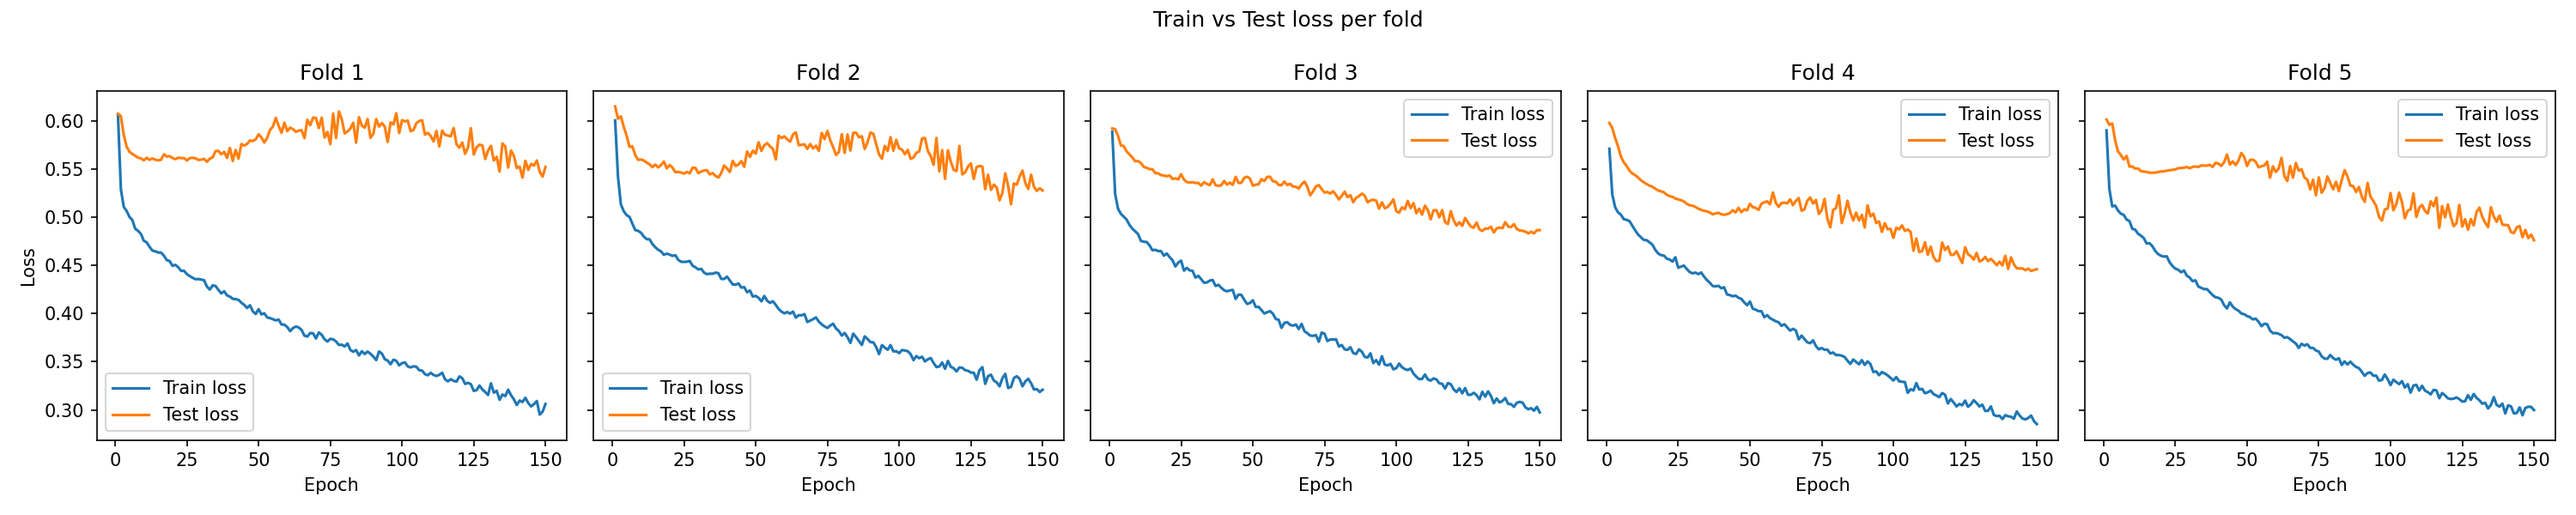
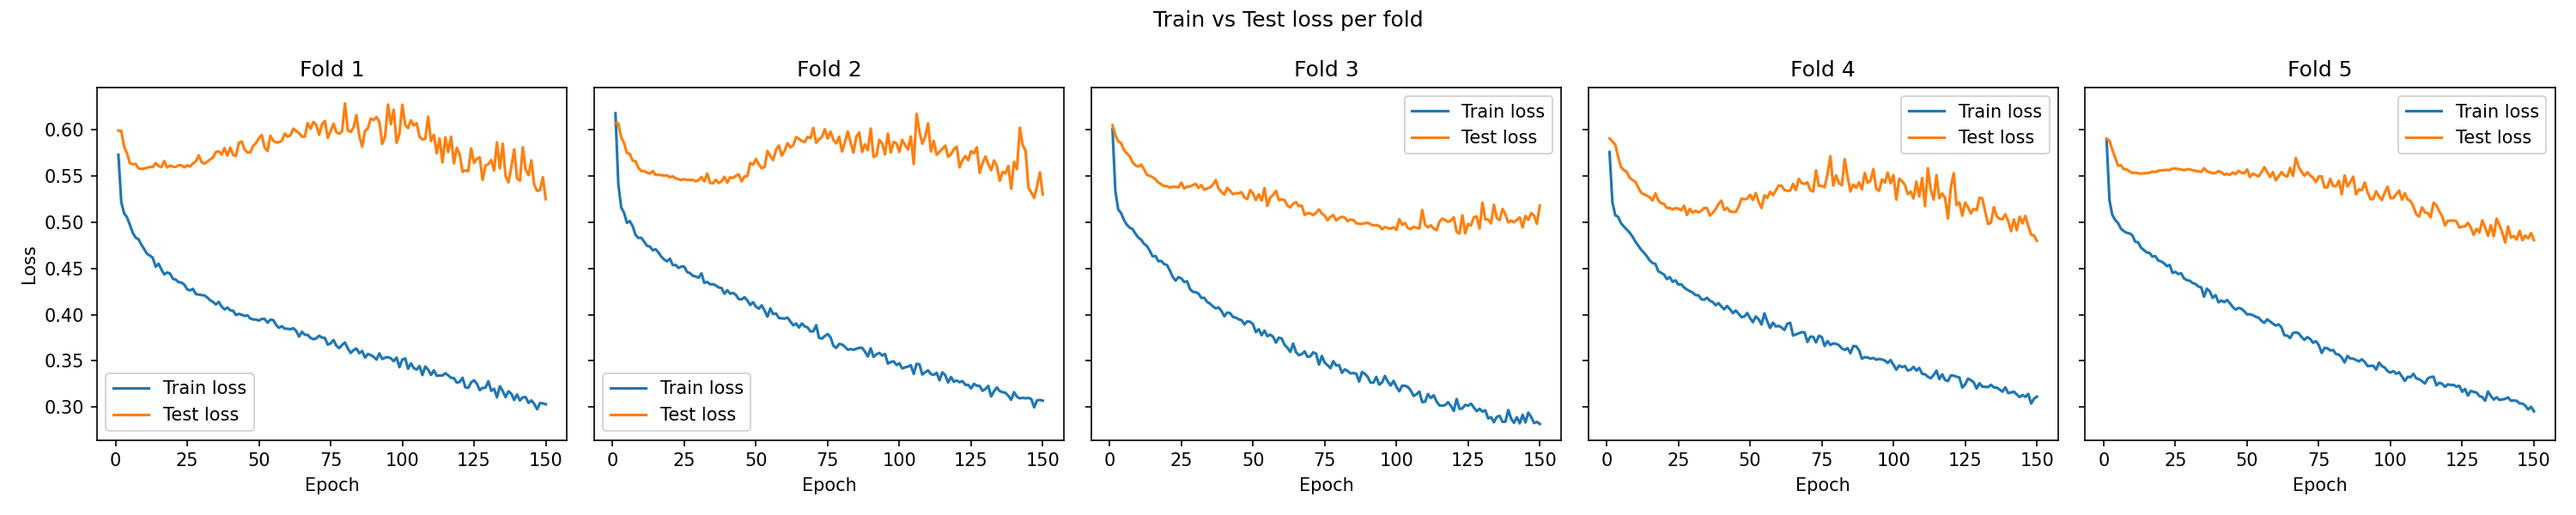
Fix shuffle and BatchNorm in GCN training

diff --git a/scripts/run_gnn.py b/scripts/run_gnn.py
@@ -1,109 +1,1 @@
-import sys, os
-sys.path.insert(0, os.path.dirname(os.path.dirname(os.path.abspath(__file__))))
-sys.path.insert(0, os.path.dirname(os.path.abspath(__file__)))
-
-import torch
-from torch_geometric.loader import DataLoader
-from sklearn.metrics import balanced_accuracy_score
-import numpy as np
-import matplotlib.pyplot as plt
-
-from src.biodeg.graph import smiles_to_graphs
-from src.biodeg.model import GCN
-from download_data import load_curated_datasets
-from preprocess import skf_class_fixed_testset
-
-EPOCHS = 150
-LR = 1e-3
-BATCH = 32
-SEED = 42
-WEIGHT_DECAY = 1e-4
-
-device = torch.device("cuda" if torch.cuda.is_available() else "cpu")
-
-df_biowin, df_final, df_scs = load_curated_datasets()
-
-x_train_folds, y_train_folds, x_test_folds, y_test_folds, _, _ = skf_class_fixed_testset(
-    df=df_final,
-    df_test=df_scs,
-    nsplits=5,
-    random_seed=SEED,
-    include_speciation=False,
-    cols=["cas", "smiles", "y_true"],
-    paper=False,
-    target_col="y_true",
-)
-
-results = []
-all_train_losses = []
-all_test_losses  = []
-
-for fold in range(5):
-    train_graphs = smiles_to_graphs(x_train_folds[fold], y_train_folds[fold])
-    test_graphs  = smiles_to_graphs(x_test_folds[fold],  y_test_folds[fold])
-
-    train_loader = DataLoader(train_graphs, batch_size=BATCH, shuffle=False)
-    test_loader  = DataLoader(test_graphs,  batch_size=BATCH)
-
-    model = GCN().to(device)
-    optimizer = torch.optim.AdamW(model.parameters(), lr=LR, weight_decay=WEIGHT_DECAY)
-    criterion = torch.nn.CrossEntropyLoss()
-
-    train_losses = []
-    test_losses  = []
-
-    for epoch in range(EPOCHS):
-        model.train()
-        epoch_loss = 0.0
-        for batch in train_loader:
-            batch = batch.to(device)
-            loss = criterion(model(batch.x, batch.edge_index, batch.batch), batch.y)
-            loss.backward()
-            optimizer.step()
-            optimizer.zero_grad()
-            epoch_loss += loss.item()
-        train_losses.append(epoch_loss / len(train_loader))
-
-        model.eval()
-        val_loss = 0.0
-        with torch.no_grad():
-            for batch in test_loader:
-                batch = batch.to(device)
-                val_loss += criterion(model(batch.x, batch.edge_index, batch.batch), batch.y).item()
-        test_losses.append(val_loss / len(test_loader))
-
-    all_train_losses.append(train_losses)
-    all_test_losses.append(test_losses)
-
-    model.eval()
-    predictions = []
-    targets = []
-
-    with torch.no_grad():
-        for batch in test_loader:
-            batch = batch.to(device)
-            out = model(batch.x, batch.edge_index, batch.batch)
-            predictions += out.argmax(dim=1).cpu().tolist()
-            targets += batch.y.cpu().tolist()
-
-    ba = balanced_accuracy_score(targets, predictions)
-    results.append(ba)
-    print(f"Fold {fold+1}: balanced accuracy = {ba}")
-
-print(f"Mean BA: {np.mean(results)} ± {np.std(results)}")
-
-# --- Loss curves ---
-epochs = range(1, EPOCHS + 1)
-fig, axes = plt.subplots(1, 5, figsize=(20, 4), sharey=True)
-for fold, ax in enumerate(axes):
-    ax.plot(epochs, all_train_losses[fold], label="Train loss")
-    ax.plot(epochs, all_test_losses[fold],  label="Test loss")
-    ax.set_title(f"Fold {fold + 1}")
-    ax.set_xlabel("Epoch")
-    if fold == 0:
-        ax.set_ylabel("Loss")
-    ax.legend()
-fig.suptitle("Train vs Test loss per fold")
-plt.tight_layout()
-plt.savefig("loss_curves.png", dpi=150)
-plt.show()
+pbpaste > run_gnn.py
